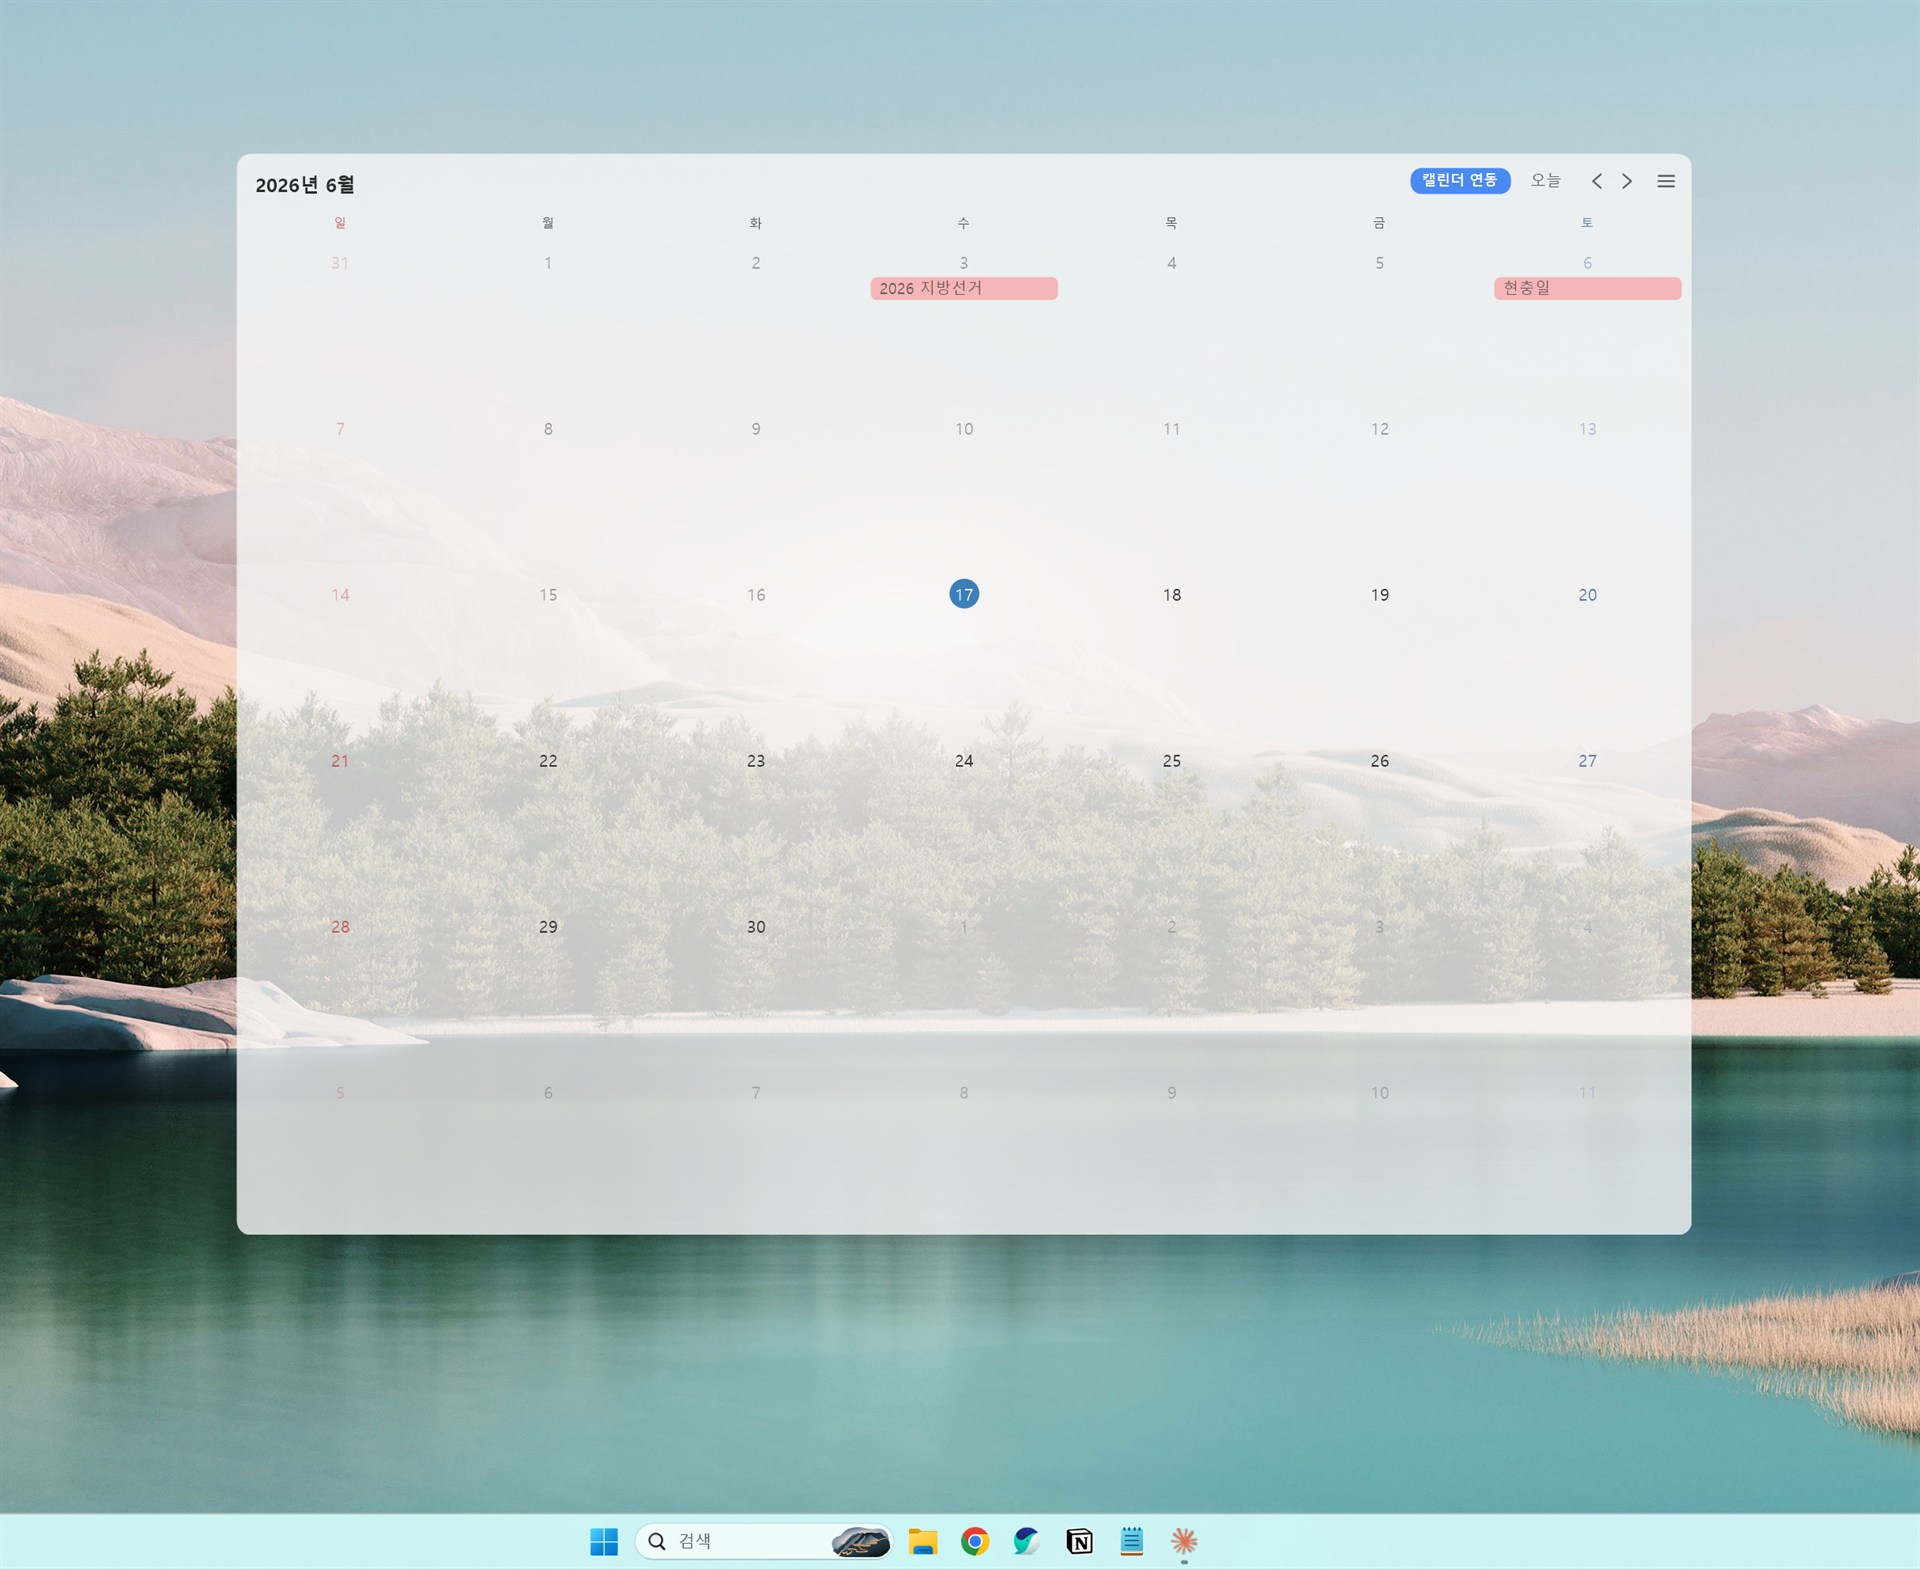
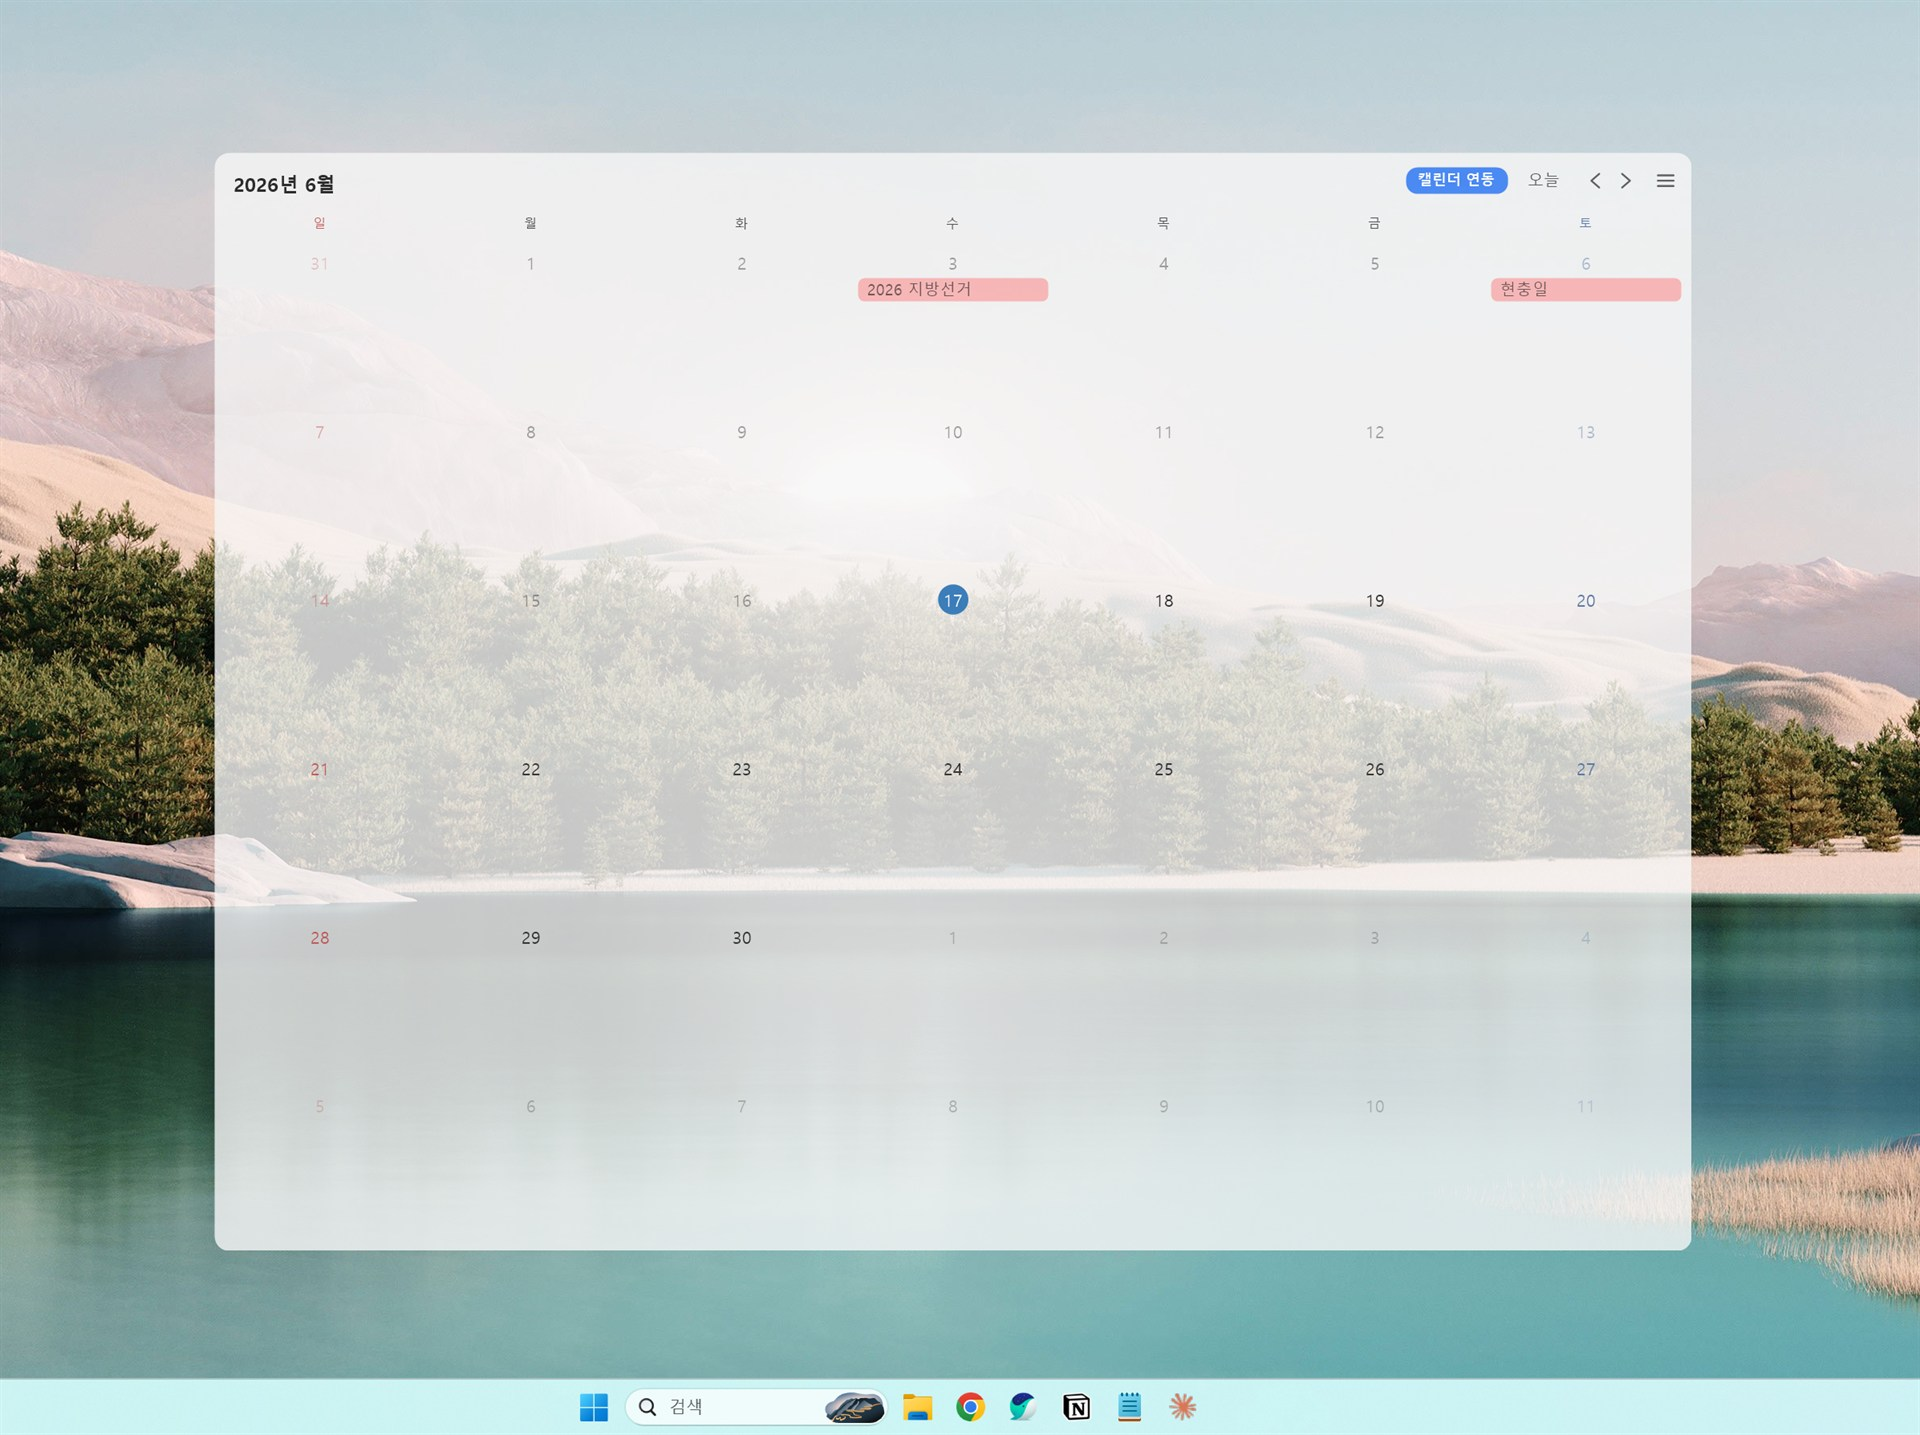
feat: 메인 스크린샷 교체 (위젯이 프레임을 더 채운 버전)
1920x1435 JPG(286KB). ?v=3 캐시 갱신.

diff --git a/index.html b/index.html
@@ -46,7 +46,7 @@
 
     <section class="shot wrap">
       <div class="shot-frame">
-        <img src="/assets/screenshot-desktop.jpg?v=2" alt="바탕화면에 떠 있는 DotDay 월간 캘린더 위젯 — 한국 공휴일이 표시된 6월 화면" loading="lazy" width="1920" height="1569" />
+        <img src="/assets/screenshot-desktop.jpg?v=3" alt="바탕화면에 떠 있는 DotDay 월간 캘린더 위젯 — 한국 공휴일이 표시된 6월 화면" loading="lazy" width="1920" height="1435" />
       </div>
     </section>
 